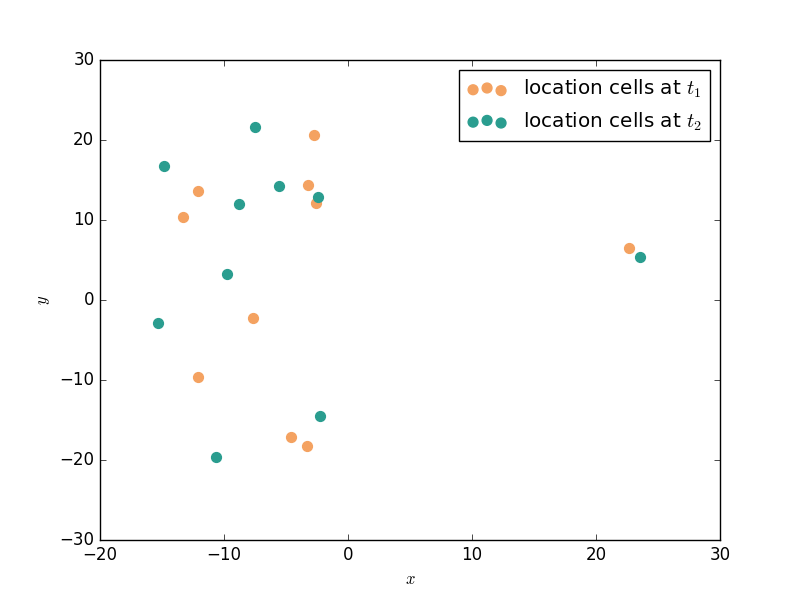
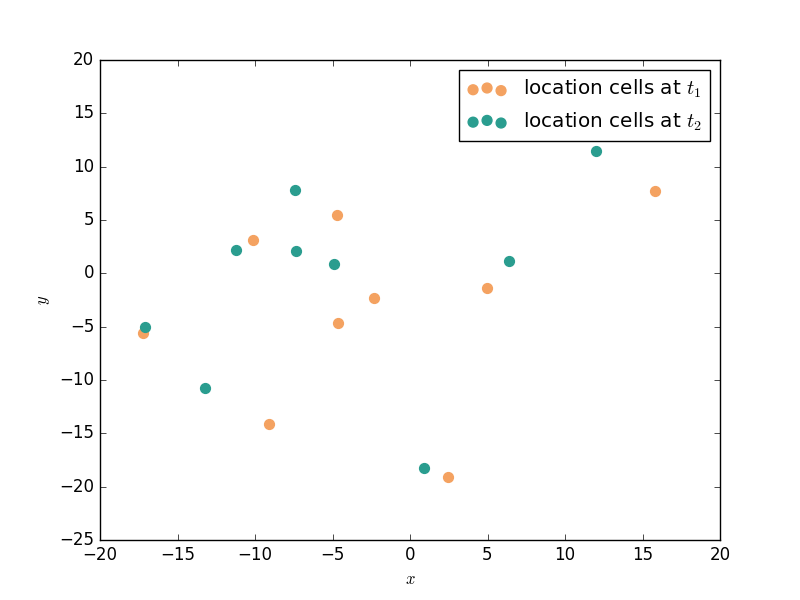
Exercise cell differentiation

diff --git a/Chapters/05.OptimalTransport/cell_differentation.py b/Chapters/05.OptimalTransport/cell_differentation.py
@@ -1,6 +1,6 @@
 """
 Created on Sunday 25 February 2018
-Last update: Monday 26 February 2018
+Last update: Tuesday 27 February 2018
 
 @author: Michiel Stock
 michielfmstock@gmail.com
@@ -12,36 +12,44 @@ import numpy as np
 from optimal_transport import shuffle_rows
 import matplotlib.pyplot as plt
 
-np.random.seed(42)
+np.random.seed(4)
 
 class DriftingNormal():
     """Simple 2-D MVN with randomly drifting mean and covariance"""
-    def __init__(self, dim=2):
+    def __init__(self, dim=2, var_mu=0):
         super(DriftingNormal, self).__init__()
         self.dim = dim
-        self.mu = np.zeros(dim)
+        if var_mu:  # draw mu from a distribition
+            self.mu = np.random.randn(dim) * var_mu
+        else:
+            self.mu = np.zeros(dim)
         self.cov = np.eye(dim)
 
-    def drift(self, mu_sigma=1, cov_sigma=1):
-        self.mu += np.random.randn(*self.mu.shape) * mu_sigma
-        # random rotation matrix
-        T = np.random.randn(*self.cov.shape) * cov_sigma
-        #self.cov[:] = T @ self.cov @ T.T + np.eye(self.dim)
-        #TODO: decrease random rotation
-        #self.cov /= np.linalg.det(self.cov)**0.5  # normalize volume
-        #self.cov *= (np.random.rand() - 0.5) * 0.25 + 0.5
+    def set_mu(self, mu):
+        self.mu[:] = mu
 
-    def sample(self, n_obs):
+    def drift(self, mu_sigma=1, cov_sigma=1, alpha_sigma=0.01):
+        self.mu += np.random.randn(*self.mu.shape) * mu_sigma
+        # random covariance matrix
+        T = np.random.randn(*self.cov.shape) * cov_sigma
+        TTT = T @ T.T
+        scaling = np.linalg.det(TTT)**(1/self.dim)
+        TTT /= scaling
+        self.cov *= 1 - alpha_sigma
+        self.cov += alpha_sigma * TTT
+
+    def sample(self, n_obs=1):
         return np.random.multivariate_normal(self.mu, cov=self.cov, size=n_obs)
 
-n_centers = 10
+n_centers = 5
 n_steps = 10
-mu_sigma = 1.2
-n_obs = 50
-growth_rate = 1.2
+mu_sigma = 1.5
+n_obs = 20
+growth_rate = 1.1
 increase_mu = 1.05
+var_mu = 7
 
-drifting_normals = [DriftingNormal() for _ in range(n_centers)]
+drifting_normals = [DriftingNormal(var_mu=var_mu) for _ in range(n_centers)]
 
 cells_measured_by_time = []
 
@@ -70,7 +78,7 @@ if __name__ == '__main__':
     from matplotlib.animation import FuncAnimation
     from optimal_transport import *
 
-    lam = 1e1
+    lam = 1
 
     cmap = plt.get_cmap('gnuplot')
 
@@ -93,33 +101,34 @@ if __name__ == '__main__':
 
     anim.save('Figures/cell_diff.gif', writer='imagemagick')
 
-    fig, axes = plt.subplots(nrows=3, ncols=3, figsize=(16, 16))
-    axes = axes.flatten()
+    #fig, axes = plt.subplots(nrows=3, ncols=3, figsize=(16, 16))
+    #axes = axes.flatten()
 
-    for i, ax in enumerate(axes):
-        Xi = cells_measured_by_time[i]
-        mi = len(Xi)
-        Xip1 = cells_measured_by_time[i+1]
-        mip1 = len(Xip1)
-        M = pairwise_distances(Xi, Xip1, metric="seuclidean")
-        P, _ = compute_optimal_transport(M, uniform_weights(mi),
-                        uniform_weights(mip1), lam=lam)
+    #for t, ax in enumerate(axes):
+    for t in range(9):
+        fig, ax = plt.subplots()
+        Xt = cells_measured_by_time[t]
+        mt = len(Xt)
+        Xtp1 = cells_measured_by_time[t+1]
+        mtp1 = len(Xtp1)
+        M = pairwise_distances(Xt, Xtp1, metric="sqeuclidean")
+        P, _ = compute_optimal_transport(M, uniform_weights(mt),
+                        uniform_weights(mtp1), lam=lam, epsilon=1e-5)
         ax.set(xlim=xlim, ylim=ylim)
         ax.set_ylabel(r'$x_2$')
         ax.set_xlabel(r'$x_1$')
         # scatter plot
-        for j, color in zip([i, i+1], [orange, green]):
-            ax.scatter(cells_measured_by_time[j][:,0],
-                                cells_measured_by_time[j][:,1],
+        for X, color in zip([Xt, Xtp1], [orange, green]):
+            ax.scatter(X[:,0], X[:,1],
                                 color=color, alpha=0.8)
         # mapping
-        for i in range(mi):
-            for j in range(mip1):
-                if P[i,j] > 1e-8:
-                    ax.plot([Xi[i,0], Xip1[j,0]], [Xi[i,1], Xip1[j,1]],
-                    color=red, alpha=P[i,j] * mi)
+        for i in range(mt):
+            for j in range(i, mtp1):
+                if P[i,j] > 1e-5:
+                    ax.plot([Xt[i,0], Xtp1[j,0]], [Xt[i,1], Xtp1[j,1]],
+                    color=red, alpha=P[i,j] * mt)
 
-        ax.set_title('Mapping between time step {} (orange)\n and {} (green)'.format(i+1, i+2))
+        ax.set_title('Mapping between time step {} (orange)\n and {} (green)'.format(t+1, t+2))
 
-    fig.tight_layout()
-    fig.savefig('Figures/cell_diff_maps.png')
+        fig.tight_layout()
+        fig.savefig('Figures/cell_diff_maps_{}.png'.format(t+1))

diff --git a/Chapters/05.OptimalTransport/cell_tracking.py b/Chapters/05.OptimalTransport/cell_tracking.py
@@ -1,6 +1,6 @@
 """
 Created on Tuesday 20 February 2018
-Last update: Sunday 25 February 2018
+Last update: Tuesday 27 February 2018
 
 @author: Michiel Stock
 michielfmstock@gmail.com
@@ -16,13 +16,13 @@ np.random.seed(42)
 # generate cells
 n_cells = 10
 sigma = 10  # initial spread
-delta_sigma = 3  # random movement
+delta_sigma = 2  # random movement
 drift = np.array([[-1.5, 3]])  # systematic drift
 
 X1 = np.random.randn(n_cells, 2) * sigma
 X2 = X1 + np.random.randn(n_cells, 2) * delta_sigma  + drift
 
-shuffle_rows(X2)  # make probem a bit harder
+#shuffle_rows(X2)  # make probem a bit harder
 
 if __name__ == '__main__':
     import matplotlib.pyplot as plt
@@ -30,7 +30,7 @@ if __name__ == '__main__':
 
 
     # plot cell
-    def plot_cells():
+    def plot_cells(X1, X2):
         fig, ax = plt.subplots()
         ax.scatter(X1[:,0], X1[:,1], s=50, color=orange,
                             label=r'location cells at $t_1$')
@@ -41,11 +41,11 @@ if __name__ == '__main__':
         ax.legend(loc=0)
         return fig, ax
 
-    fig, ax = plot_cells()
+    fig, ax = plot_cells(X1, X2)
     fig.savefig('Figures/cells_locations.png')
 
-    fig, ax = plot_cells()
-    C = pairwise_distances(X1, X2, metric='seuclidean')
+    fig, ax = plot_cells(X1, X2)
+    C = pairwise_distances(X1, X2, metric='sqeuclidean')
     best_perm, best_cost = kantorovich_brute_force(C)
 
     for i, i_m in enumerate(best_perm):
